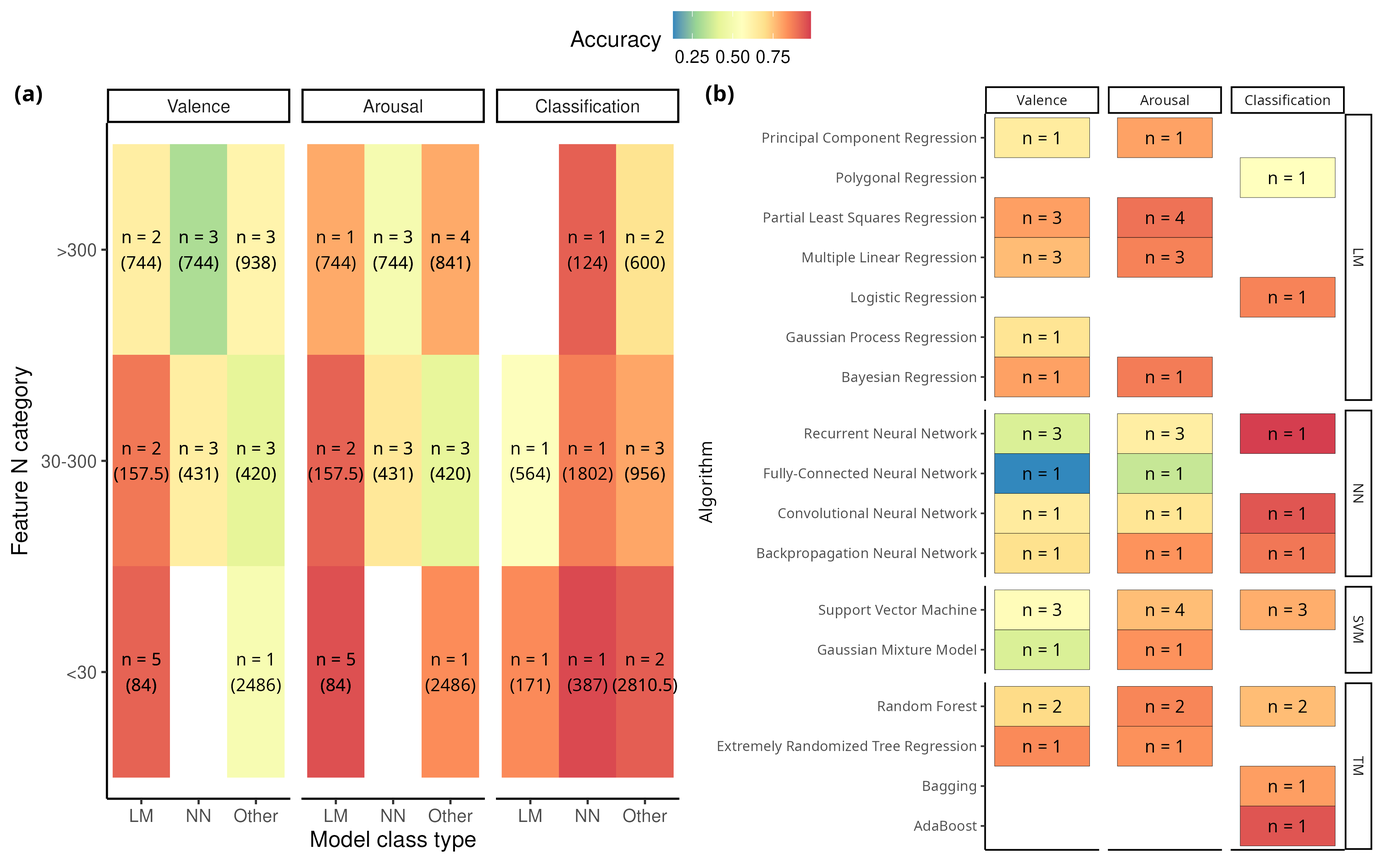
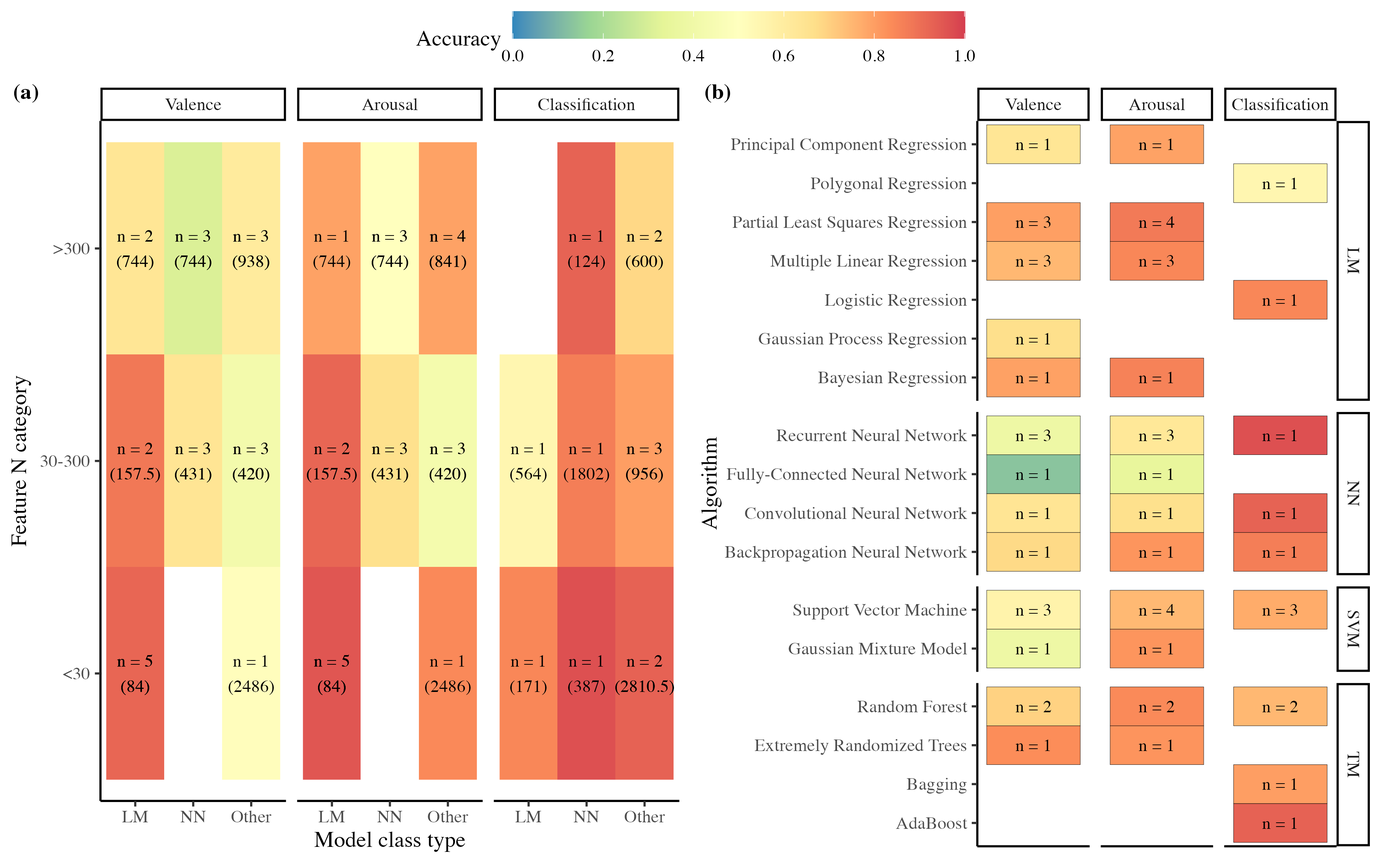
Font edits to heatmap and MS edits to introduction

diff --git a/docs/manuscript/manuscript.html b/docs/manuscript/manuscript.html
@@ -211,6 +211,7 @@ window.Quarto = {
 </header>
 
 
+<!-- ACM Computing Surveys: Shorter survey papers should be self-contained and not exceed 15 pages in length including references. -->
 <section id="introduction" class="level1">
 <h1>Introduction</h1>
 <p>Emotional engagement is a key reason why people engage with music in their every day activities, and it is also why music is increasingly being used in various health applications <span class="citation" data-cites="juslin2022emotions agres2021music">(<a href="#ref-agres2021music" role="doc-biblioref">Agres et al., 2021</a>; <a href="#ref-juslin2022emotions" role="doc-biblioref">Juslin et al., 2022</a>)</span>. In recent years, significant advances have been made in music information retrieval, particularly in music emotion recognition (MER) tasks <span class="citation" data-cites="gomez2021 panda2020audio">(<a href="#ref-gomez2021" role="doc-biblioref">Gómez-Cañón et al., 2021</a>; <a href="#ref-panda2020audio" role="doc-biblioref">Panda et al., 2023</a>)</span>. Improvements in available features, modeling techniques, and datasets have provided the field with opportunities to enhance the accuracy and reliability of predicting annotated emotions from audio. Over the past 25 years, numerous studies have established the types of emotions that listeners perceive and recognize in music. In the last 15 years, research has increasingly focused on tracing these recognized emotions back to specific musical components, such as expressive features <span class="citation" data-cites="lindstrom2003expressivity">(<a href="#ref-lindstrom2003expressivity" role="doc-biblioref">Lindström et al., 2003</a>)</span>, structural aspects of music <span class="citation" data-cites="eerola_friberg_bresin_2013 anderson2022ex grimaud_eerola_2022">(<a href="#ref-anderson2022ex" role="doc-biblioref">Anderson &amp; Schutz, 2022</a>; <a href="#ref-eerola_friberg_bresin_2013" role="doc-biblioref">Eerola et al., 2013</a>; <a href="#ref-grimaud_eerola_2022" role="doc-biblioref">Grimaud &amp; Eerola, 2022</a>)</span>, acoustic features <span class="citation" data-cites="yang2008 panda2013multi saari_et_al_2015 eerola2011c panda2020audio">(<a href="#ref-eerola2011c" role="doc-biblioref">Eerola, 2011</a>; <a href="#ref-panda2020audio" role="doc-biblioref">Panda et al., 2023</a>, <a href="#ref-panda2013multi" role="doc-biblioref">2013</a>; <a href="#ref-saari_et_al_2015" role="doc-biblioref">Saari et al., 2015</a>; <a href="#ref-yang2008" role="doc-biblioref">Y. H. Yang et al., 2008</a>)</span>, or emergent properties revealed through deep learning techniques <span class="citation" data-cites="er2019music sarkar2020recognition">(<a href="#ref-er2019music" role="doc-biblioref">Er &amp; Aydilek, 2019</a>; <a href="#ref-sarkar2020recognition" role="doc-biblioref">Sarkar et al., 2020</a>)</span>.</p>
@@ -227,10 +228,11 @@ window.Quarto = {
 <!--paragraph on models used across regession & classification tasks-->
 <p>Across regression and classification paradigms, a wide range of models have been employed, ranging from linear regression models <span class="citation" data-cites="saizclar2022pr griffiths2021am yang2008">(<a href="#ref-griffiths2021am" role="doc-biblioref">Griffiths et al., 2021</a>; <a href="#ref-saizclar2022pr" role="doc-biblioref">Saiz-Clar et al., 2022</a>; <a href="#ref-yang2008" role="doc-biblioref">Y. H. Yang et al., 2008</a>)</span> to deep neural networks <span class="citation" data-cites="orjesek2022en hizlisoy2021mu">(<a href="#ref-hizlisoy2021mu" role="doc-biblioref">Hizlisoy et al., 2021</a>; <a href="#ref-orjesek2022en" role="doc-biblioref">Orjesek et al., 2022</a>)</span>. In classification tasks, early work has commonly employed Gaussian mixture models <span class="citation" data-cites="lu_automatic_2005 liu_automatic_2003">(<a href="#ref-liu_automatic_2003" role="doc-biblioref">Liu et al., 2003</a>; <a href="#ref-lu_automatic_2005" role="doc-biblioref">Lu et al., 2005</a>)</span> and support vector machines <span class="citation" data-cites="mandel2007labrosa lin2009eeg tzanetakis2007marsyas">(<a href="#ref-lin2009eeg" role="doc-biblioref">Lin et al., 2009</a>; <a href="#ref-mandel2007labrosa" role="doc-biblioref">M. Mandel &amp; Ellis, 2007</a>; <a href="#ref-tzanetakis2007marsyas" role="doc-biblioref">Tzanetakis, 2007</a>)</span>, whereas convolutional, recurrent, and fully-connected neural networks have become increasingly popular in recent years <span class="citation" data-cites="grekow2021music song2018audio coutinho2017sh">(<a href="#ref-coutinho2017sh" role="doc-biblioref">Coutinho &amp; Schuller, 2017</a>; <a href="#ref-grekow2021music" role="doc-biblioref">Grekow, 2021</a>; <a href="#ref-song2018audio" role="doc-biblioref">Song et al., 2018</a>)</span>. In regression tasks, a wide range of algorithms have been tested, including partial least squares <span class="citation" data-cites="gingras2014be wang2021ac">(<a href="#ref-gingras2014be" role="doc-biblioref">Gingras et al., 2014</a>; <a href="#ref-wang2021ac" role="doc-biblioref">Wang et al., 2021</a>)</span>, support vector machines <span class="citation" data-cites="grekow2018au hu2017cr agarwal2021an">(<a href="#ref-agarwal2021an" role="doc-biblioref">Agarwal &amp; Om, 2021</a>; <a href="#ref-grekow2018au" role="doc-biblioref">Grekow, 2018</a>; <a href="#ref-hu2017cr" role="doc-biblioref">X. Hu &amp; Yang, 2017</a>)</span>, random forests <span class="citation" data-cites="beveridge2018po xu2021us">(<a href="#ref-beveridge2018po" role="doc-biblioref">Beveridge &amp; Knox, 2018</a>; <a href="#ref-xu2021us" role="doc-biblioref">Xu et al., 2021</a>)</span>, and convolutional neural networks <span class="citation" data-cites="orjesek2022en">(<a href="#ref-orjesek2022en" role="doc-biblioref">Orjesek et al., 2022</a>)</span>.</p>
 </section>
-<section id="large-vs.-small-data" class="level2">
-<h2 class="anchored" data-anchor-id="large-vs.-small-data">Large vs.&nbsp;small data</h2>
-<p>MER tasks commonly apply regression and classification techniques to diverse datasets with features drawn from both music (e.g., audio, MIDI, metadata) and participants (e.g., demographic information, survey responses, physiological signals, etc.). To facilitate model comparison, several databases have been shared publicly, including MediaEval <span class="citation" data-cites="soleymani2013">(<a href="#ref-soleymani2013" role="doc-biblioref">Soleymani et al., 2013</a>)</span>, DEAM <span class="citation" data-cites="aljanaki2017developing">(<a href="#ref-aljanaki2017developing" role="doc-biblioref">Aljanaki et al., 2017</a>)</span>, and AMG1608 <span class="citation" data-cites="chen2015amg1608">(<a href="#ref-chen2015amg1608" role="doc-biblioref">Chen et al., 2015</a>)</span>. These datasets represent Western pop music, are moderate in terms of the size (containing from 744 to 1802 music excerpts) and have been manually annotated by a relatively large number of participants (either by experts, students, or crowdsourced workers). Many datasets include audio features analyzed with software toolboxes for audio analysis such as OpenSMILE <span class="citation" data-cites="eyben2010opensmile">(<a href="#ref-eyben2010opensmile" role="doc-biblioref">Eyben et al., 2010</a>)</span> and MIRToolbox <span class="citation" data-cites="lartillot2007matlab">(<a href="#ref-lartillot2007matlab" role="doc-biblioref">Lartillot &amp; Toiviainen, 2007</a>)</span> – enabling models that predict ratings using tens, or even hundreds, of audio features. Large datasets are ideal for generalizing predictions across diverse musical samples and are commonly employed in machine learning applications focused on maximizing accuracy of a MER system.</p>
-<p>Although training MER systems with a wide range of stimuli and features can be useful for generalizable and accurate modeling, small datasets can be more appropriate in explorations that require precise control of stimuli or analyzed features to understand a model’s performance. For example, <span class="citation" data-cites="griffiths2021am">Griffiths et al. (<a href="#ref-griffiths2021am" role="doc-biblioref">2021</a>)</span> evaluated a MER model’s performance when predicting 20 tracks different genres, validating the model on another 40 tracks. <span class="citation" data-cites="saizclar2022pr">Saiz-Clar et al. (<a href="#ref-saizclar2022pr" role="doc-biblioref">2022</a>)</span> evaluated how onset curves (changes in the energy of a note starting from its onset) can be incorporated into a predictive framework using 40 short (8-12s) piano excerpts. Smaller datasets are also useful in studies attempting to explain how stimulus qualities such as amplitude normalization <span class="citation" data-cites="gingras2014be">(<a href="#ref-gingras2014be" role="doc-biblioref">Gingras et al., 2014</a>)</span> or different performers’ interpretations <span class="citation" data-cites="battcock2021in">(<a href="#ref-battcock2021in" role="doc-biblioref">Battcock &amp; Schutz, 2021</a>)</span> affect ratings of valence and arousal. Although these studies are not always designed with MER applications in mind, their similar framework has enabled direct application <span class="citation" data-cites="chowdhury2021perceived">(e.g., <a href="#ref-chowdhury2021perceived" role="doc-biblioref">Chowdhury &amp; Widmer, 2021</a>)</span>.</p>
+<section id="dataset-size-and-scope" class="level2">
+<h2 class="anchored" data-anchor-id="dataset-size-and-scope">Dataset size and scope</h2>
+<p>MER tasks commonly apply regression and classification techniques to diverse datasets with features drawn from both music (e.g., audio, MIDI, metadata) and participants (e.g., demographic information, survey responses, physiological signals, etc.). To facilitate model comparison, several databases have been shared publicly, including <em>MediaEval</em> <span class="citation" data-cites="soleymani2013">(<a href="#ref-soleymani2013" role="doc-biblioref">Soleymani et al., 2013</a>)</span>, <em>DEAM</em> <span class="citation" data-cites="aljanaki2017developing">(<a href="#ref-aljanaki2017developing" role="doc-biblioref">Aljanaki et al., 2017</a>)</span>, and <em>AMG1608</em> <span class="citation" data-cites="chen2015amg1608">(<a href="#ref-chen2015amg1608" role="doc-biblioref">Chen et al., 2015</a>)</span>. These datasets represent Western pop music, are moderate in terms of the size (containing from 744 to 1802 music excerpts) and have been manually annotated by a relatively large number of participants (either by experts, students, or crowdsourced workers). Many datasets include audio features analyzed with software toolboxes for audio analysis such as <em>OpenSMILE</em> <span class="citation" data-cites="eyben2010opensmile">(<a href="#ref-eyben2010opensmile" role="doc-biblioref">Eyben et al., 2010</a>)</span> and <em>MIRToolbox</em> <span class="citation" data-cites="lartillot2007matlab">(<a href="#ref-lartillot2007matlab" role="doc-biblioref">Lartillot &amp; Toiviainen, 2007</a>)</span> – enabling models that predict ratings using tens, or even hundreds, of audio features.</p>
+<p>Large datasets are needed to generalize predictions across diverse samples, especially for deep learning and complex machine-learning models that require extensive pre-training. However, the dataset sizes in MER tend to be modest in comparison, as direct annotation of music examples is resource-intensive. In contrast, datasets in the visual domain are often significantly larger (e.g., <em>EmoSet</em> with 118,102 images and <em>AffectNet</em> with 450,000, see <span class="citation" data-cites="yang2023emoset">Jingyuan Yang et al. (<a href="#ref-yang2023emoset" role="doc-biblioref">2023</a>)</span>;<span class="citation" data-cites="mollahosseini2017affectnet">Mollahosseini et al. (<a href="#ref-mollahosseini2017affectnet" role="doc-biblioref">2017</a>)</span>). Some efforts have been made to scale up MER datasets by inferring emotions from tags (<em>MTG-Jamendo</em> with 18,486 excerpts <span class="citation" data-cites="bogdanov2019mtg">Bogdanov et al. (<a href="#ref-bogdanov2019mtg" role="doc-biblioref">2019</a>)</span> and <em>Music4all</em> with 109,269 excerpts <span class="citation" data-cites="santana2020">Santana et al. (<a href="#ref-santana2020" role="doc-biblioref">2020</a>)</span>), but these have not found their way into standard emotion prediction or classification tasks yet.</p>
+<p>Although training MER systems with a wide range of stimuli and features can be useful for generalizable and accurate modeling, small datasets can be more appropriate in explorations that require precise control of stimuli or analyzed features to understand a model’s performance. For example, <span class="citation" data-cites="griffiths2021am">Griffiths et al. (<a href="#ref-griffiths2021am" role="doc-biblioref">2021</a>)</span> evaluated a MER model’s performance when predicting 20 tracks different genres, validating the model on another 40 tracks. <span class="citation" data-cites="saizclar2022pr">Saiz-Clar et al. (<a href="#ref-saizclar2022pr" role="doc-biblioref">2022</a>)</span> evaluated how onset curves (changes in the energy of a note starting from its onset) can be incorporated into a predictive framework using 40 short (8-12s) piano excerpts. Smaller datasets are also useful in studies attempting to explain how stimulus qualities such as amplitude normalization <span class="citation" data-cites="gingras2014be">(<a href="#ref-gingras2014be" role="doc-biblioref">Gingras et al., 2014</a>)</span> or different performers’ interpretations <span class="citation" data-cites="battcock2021in">(<a href="#ref-battcock2021in" role="doc-biblioref">Battcock &amp; Schutz, 2021</a>)</span> affect ratings of valence and arousal. Although predictive modeling is not always an explicit goal of these studies, MER researchers have been able to adapt them in a MER framework <span class="citation" data-cites="chowdhury2021perceived">(e.g., <a href="#ref-chowdhury2021perceived" role="doc-biblioref">Chowdhury &amp; Widmer, 2021</a>)</span>.</p>
 </section>
 <section id="the-current-benchmarks-of-mer" class="level2">
 <h2 class="anchored" data-anchor-id="the-current-benchmarks-of-mer">The current benchmarks of MER</h2>
@@ -244,8 +246,8 @@ window.Quarto = {
 - How do modeling techniques, and the number of features used affect performance? Which combinations perform best?
 
 -->
-<p>Prediction accuracy in MER tasks has improved as datasets and models have become more sophisticated; The regression models for arousal/valence was 58%/28% in 2008 <span class="citation" data-cites="yang2008">(<a href="#ref-yang2008" role="doc-biblioref">Y. H. Yang et al., 2008</a>)</span>, 70%/26% in 2010 <span class="citation" data-cites="huq2010automated">(<a href="#ref-huq2010automated" role="doc-biblioref">Huq et al., 2010</a>)</span>, to 67%/46% in 2021 <span class="citation" data-cites="yang2021an">(<a href="#ref-yang2021an" role="doc-biblioref">J. Yang, 2021</a>)</span>. The classification rates have similarly increased from 53% <span class="citation" data-cites="downie_music_2008">(<a href="#ref-downie_music_2008" role="doc-biblioref">Downie, 2008</a>)</span> to 70% <span class="citation" data-cites="park2017representation">(<a href="#ref-park2017representation" role="doc-biblioref">Park et al., 2017</a>)</span> to 83% <span class="citation" data-cites="sarkar2020recognition">(<a href="#ref-sarkar2020recognition" role="doc-biblioref">Sarkar et al., 2020</a>)</span> in the same period. Comparing these past efforts is challenging due to inconsistencies in metrics, modelling architectures, datasets, and model evaluation criteria. While we assume that overall accuracy has improved significantly over the past decade, predicting valence remains more challenging than predicting arousal.</p>
-<p>Researchers have sought to enhance emotion prediction by identifying more relevant feature sets <span class="citation" data-cites="panda2020audio chowdhury2021perceived">(<a href="#ref-chowdhury2021perceived" role="doc-biblioref">Chowdhury &amp; Widmer, 2021</a>; <a href="#ref-panda2020audio" role="doc-biblioref">Panda et al., 2023</a>)</span>, integrating low-, mid-, and high-level features through multimodal data <span class="citation" data-cites="celma_foafing_2006">(<a href="#ref-celma_foafing_2006" role="doc-biblioref">Celma, 2006</a>)</span>, and leveraging neural networks to learn features directly from audio <span class="citation" data-cites="zhang2016br alvarez2023ri agarwal2021an">(<a href="#ref-agarwal2021an" role="doc-biblioref">Agarwal &amp; Om, 2021</a>; <a href="#ref-alvarez2023ri" role="doc-biblioref">Álvarez et al., 2023</a>; <a href="#ref-zhang2016br" role="doc-biblioref">J. Zhang et al., 2016</a>)</span>. These approaches aim to overcome what has been described as a <em>glass ceiling</em> in MER research <span class="citation" data-cites="downie_music_2008">(<a href="#ref-downie_music_2008" role="doc-biblioref">Downie, 2008</a>)</span> – a limitation sometimes referred to as the <em>semantic gap</em> <span class="citation" data-cites="wiggins_semantic_2009">(<a href="#ref-wiggins_semantic_2009" role="doc-biblioref">Wiggins, 2009</a>)</span>. However, this ceiling may be better understood as an inherent measurement error arising from annotations, feature representations, and model limitations. While isolating the sources of these errors remains infeasible at this stage, comparing success rates across modeling techniques, feature set sizes, and other meaningful factors offers a step toward addressing this challenge. To date, however, no study has systematically compared the results of the diverse approaches employed in MER research.</p>
+<p>Prediction accuracy in MER tasks has improved as datasets and models have become more sophisticated; The regression models for arousal/valence was 58%/28% in 2008 <span class="citation" data-cites="yang2008">(<a href="#ref-yang2008" role="doc-biblioref">Y. H. Yang et al., 2008</a>)</span>, 70%/26% in 2010 <span class="citation" data-cites="huq2010automated">(<a href="#ref-huq2010automated" role="doc-biblioref">Huq et al., 2010</a>)</span>, to 67%/46% in 2021 <span class="citation" data-cites="yang2021an">(<a href="#ref-yang2021an" role="doc-biblioref">Jing Yang, 2021</a>)</span>. The classification rates have similarly increased from 53% <span class="citation" data-cites="downie_music_2008">(<a href="#ref-downie_music_2008" role="doc-biblioref">Downie, 2008</a>)</span> to 70% <span class="citation" data-cites="park2017representation">(<a href="#ref-park2017representation" role="doc-biblioref">Park et al., 2017</a>)</span> to 83% <span class="citation" data-cites="sarkar2020recognition">(<a href="#ref-sarkar2020recognition" role="doc-biblioref">Sarkar et al., 2020</a>)</span> in the same period. Comparing these past efforts, however, is challenging due to inconsistencies in metrics, modelling architectures, datasets, and model evaluation criteria. While we assume that overall accuracy has improved significantly over the past decade, predicting valence remains more challenging than predicting arousal.</p>
+<p>Researchers have sought to enhance emotion prediction by identifying more relevant feature sets <span class="citation" data-cites="panda2020audio chowdhury2021perceived">(<a href="#ref-chowdhury2021perceived" role="doc-biblioref">Chowdhury &amp; Widmer, 2021</a>; <a href="#ref-panda2020audio" role="doc-biblioref">Panda et al., 2023</a>)</span>, integrating low-, mid-, and high-level features through multimodal data <span class="citation" data-cites="celma_foafing_2006">(<a href="#ref-celma_foafing_2006" role="doc-biblioref">Celma, 2006</a>)</span>, and leveraging neural networks to learn features directly from audio <span class="citation" data-cites="zhang2016br alvarez2023ri agarwal2021an">(<a href="#ref-agarwal2021an" role="doc-biblioref">Agarwal &amp; Om, 2021</a>; <a href="#ref-alvarez2023ri" role="doc-biblioref">Álvarez et al., 2023</a>; <a href="#ref-zhang2016br" role="doc-biblioref">J. Zhang et al., 2016</a>)</span>. These approaches aim to overcome what has been described as a <em>glass ceiling</em> in MER research <span class="citation" data-cites="downie_music_2008">(<a href="#ref-downie_music_2008" role="doc-biblioref">Downie, 2008</a>)</span> – a limitation sometimes referred to as the <em>semantic gap</em> <span class="citation" data-cites="wiggins_semantic_2009 celma_foafing_2006">(<a href="#ref-celma_foafing_2006" role="doc-biblioref">Celma, 2006</a>; <a href="#ref-wiggins_semantic_2009" role="doc-biblioref">Wiggins, 2009</a>)</span>. However, this prediction ceiling may be better understood as an inherent <em>measurement error</em> arising from annotations, feature representations, and model limitations. While isolating the sources of these errors remains infeasible at this stage, comparing success rates across modeling techniques, feature set sizes, and other meaningful factors offers a step toward addressing this challenge. To date, however, no study has systematically compared the results of the diverse approaches employed in MER research.</p>
 </section>
 <section id="aims" class="level2">
 <h2 class="anchored" data-anchor-id="aims">Aims</h2>
@@ -1071,7 +1073,7 @@ TE: Or if we submit the meta-analysis soon and create a more pragmatic breakdown
 <!-- ### Feature definition/validations -->
 <p>One of the crucial aspects of modeling is the choice of features, their quantity, and their validation. In the present materials, we observe a continuum defined by two extremes: one approach relies on domain knowledge, starting with a limited number of features that are assumed to be perceptually relevant, while the other employs a large number of features, allowing the model to determine which are most relevant for prediction. The former is typically favored in music psychology studies, whereas the latter is more common in engineering and machine learning fields. Our results suggest that the domain knowledge-driven approach leads to the highest model accuracy across all studies and techniques. However, as our sample includes studies from the past 10 years, it is important to note that deep learning models have only gained prominence in this field since 2021. Consequently, it is too early to generalize that models based on domain knowledge, with a limited number of features and classical techniques, will continue to outperform machine learning approaches that utilize a large (300+) feature sets. We believe that the relatively modest size of datasets available so far has prevented deep learning approaches from fully leveraging their potential to learn generalizable patterns in the data . For reference, the size of the datasets in MER are currently comparable to dataset sizes for modeling facial expressions (median N=502, <span class="citation" data-cites="krumhuber2017">Krumhuber et al. (<a href="#ref-krumhuber2017" role="doc-biblioref">2017</a>)</span>) and speech expressions (median of 1287, <span class="citation" data-cites="hashem2023">Hashem et al. (<a href="#ref-hashem2023" role="doc-biblioref">2023</a>)</span>). However, annotated datasets for visual scenes and objects tend to be much larger, often exceeding 100,000 annotated examples <span class="citation" data-cites="deng2009imagenet krishna2017visual">(<a href="#ref-deng2009imagenet" role="doc-biblioref">Deng et al., 2009</a>; <a href="#ref-krishna2017visual" role="doc-biblioref">Krishna et al., 2017</a>)</span>. Datasets of these magnitudes seem to be required for appropriate utilisation of deep learning algorithms <span class="citation" data-cites="alwosheel2018 sun2017revisiting">(<a href="#ref-alwosheel2018" role="doc-biblioref">Alwosheel et al., 2018</a>; <a href="#ref-sun2017revisiting" role="doc-biblioref">Sun et al., 2017</a>)</span>, which may explain the modest results observed in the music emotion recognition studies.</p>
 <!-- ### Validation -->
-<p>An encouraging finding is that ~94% of the studies analyzed here reported some form of model validation. The majority of studies validated models by splitting the dataset into separate sets for training and testing <span class="citation" data-cites="yang2021an">(e.g., <a href="#ref-yang2021an" role="doc-biblioref">J. Yang, 2021</a>)</span>, sometimes including an additional set for validation <span class="citation" data-cites="sorussa2020em">(<a href="#ref-sorussa2020em" role="doc-biblioref">Sorussa et al., 2020</a>)</span>. Most used some form of cross validation (CV), with the most common type being 10-fold CV. Other varieties included 3-fold, 5-fold, or 6-fold CV, as well as more complex variants like nested leave-one-out CV <span class="citation" data-cites="coutinho2017sh">(<a href="#ref-coutinho2017sh" role="doc-biblioref">Coutinho &amp; Schuller, 2017</a>)</span> and 20 x 10-fold CV <span class="citation" data-cites="panda2020no">(<a href="#ref-panda2020no" role="doc-biblioref">Panda et al., 2020</a>)</span>. Whereas many engineering studies performed model validation using one or more large databases, some psychological studies evaluating smaller datasets validated models by designing new experiments. Examples include comparing a model’s performance on ground-truth data with annotations from a second experiment <span class="citation" data-cites="griffiths2021am beveridge2018po">(<a href="#ref-beveridge2018po" role="doc-biblioref">Beveridge &amp; Knox, 2018</a>; <a href="#ref-griffiths2021am" role="doc-biblioref">Griffiths et al., 2021</a>)</span>, or comparing a model’s performance across different versions of the same music pieces <span class="citation" data-cites="battcock2021in">(<a href="#ref-battcock2021in" role="doc-biblioref">Battcock &amp; Schutz, 2021</a>)</span>.</p>
+<p>An encouraging finding is that ~94% of the studies analyzed here reported some form of model validation. The majority of studies validated models by splitting the dataset into separate sets for training and testing <span class="citation" data-cites="yang2021an">(e.g., <a href="#ref-yang2021an" role="doc-biblioref">Jing Yang, 2021</a>)</span>, sometimes including an additional set for validation <span class="citation" data-cites="sorussa2020em">(<a href="#ref-sorussa2020em" role="doc-biblioref">Sorussa et al., 2020</a>)</span>. Most used some form of cross validation (CV), with the most common type being 10-fold CV. Other varieties included 3-fold, 5-fold, or 6-fold CV, as well as more complex variants like nested leave-one-out CV <span class="citation" data-cites="coutinho2017sh">(<a href="#ref-coutinho2017sh" role="doc-biblioref">Coutinho &amp; Schuller, 2017</a>)</span> and 20 x 10-fold CV <span class="citation" data-cites="panda2020no">(<a href="#ref-panda2020no" role="doc-biblioref">Panda et al., 2020</a>)</span>. Whereas many engineering studies performed model validation using one or more large databases, some psychological studies evaluating smaller datasets validated models by designing new experiments. Examples include comparing a model’s performance on ground-truth data with annotations from a second experiment <span class="citation" data-cites="griffiths2021am beveridge2018po">(<a href="#ref-beveridge2018po" role="doc-biblioref">Beveridge &amp; Knox, 2018</a>; <a href="#ref-griffiths2021am" role="doc-biblioref">Griffiths et al., 2021</a>)</span>, or comparing a model’s performance across different versions of the same music pieces <span class="citation" data-cites="battcock2021in">(<a href="#ref-battcock2021in" role="doc-biblioref">Battcock &amp; Schutz, 2021</a>)</span>.</p>
 <!-- Western bias -->
 <p>At present, the majority of the datasets are Western pop, which represent only a fraction of the musical styles consumed globally. Also, the annotators representing the Global North dominate the studies at the moment, with some exceptions <span class="citation" data-cites="gomez-canon2023 zhangPMEmo2018">(<a href="#ref-gomez-canon2023" role="doc-biblioref">Gómez-Cañón et al., 2023</a>; <a href="#ref-zhangPMEmo2018" role="doc-biblioref">K. Zhang et al., 2018</a>)</span>. This lack of diversity may contribute the success of the task but presents a significant limitation in our understanding of MER more broadly <span class="citation" data-cites="bornDiversifyingMIRKnowledge2020">(<a href="#ref-bornDiversifyingMIRKnowledge2020" role="doc-biblioref">Born, 2020</a>)</span>.</p>
 <!-- ### Emotion frameworks chosen -->
@@ -1138,6 +1140,9 @@ Beveridge, S., &amp; Knox, D. (2018). Popular music and the role of vocal melody
 </div>
 <div id="ref-bhuvanakumar2023em" class="csl-entry" role="listitem">
 Bhuvana Kumar, V., &amp; Kathiravan, M. (2023). Emotion recognition from MIDI musical file using enhanced residual gated recurrent unit architecture [Article]. <em>Frontiers in Computer Science</em>, <em>5</em>. <a href="https://doi.org/10.3389/fcomp.2023.1305413">https://doi.org/10.3389/fcomp.2023.1305413</a>
+</div>
+<div id="ref-bogdanov2019mtg" class="csl-entry" role="listitem">
+Bogdanov, D., Won, M., Tovstogan, P., Porter, A., &amp; Serra, X. (2019). The <span class="nocase">MTG-jamendo</span> dataset for automatic music tagging. <em>Machine Learning for Music Discovery Workshop, International Conference on Machine Learning (<span>ICML</span> 2019)</em>.
 </div>
 <div id="ref-bornDiversifyingMIRKnowledge2020" class="csl-entry" role="listitem">
 Born, G. (2020). Diversifying <span>MIR</span>: Knowledge and real-world challenges, and new interdisciplinary futures. <em>Transactions of the International Society for Music Information Retrieval</em>, <em>3</em>(1), 193–204. <a href="https://doi.org/10.5334/tismir.58">https://doi.org/10.5334/tismir.58</a>
@@ -1292,6 +1297,9 @@ Mashao, D. J. (2003). Comparing SVM and GMM on parametric feature-sets. <em>Proc
 <div id="ref-mendel1969some" class="csl-entry" role="listitem">
 Mendel, A. (1969). Some preliminary attempts at computer-assisted style analysis in music. <em>Computers and the Humanities</em>, 41–52.
 </div>
+<div id="ref-mollahosseini2017affectnet" class="csl-entry" role="listitem">
+Mollahosseini, A., Hasani, B., &amp; Mahoor, M. H. (2017). Affectnet: A database for facial expression, valence, and arousal computing in the wild. <em>IEEE Transactions on Affective Computing</em>, <em>10</em>(1), 18–31.
+</div>
 <div id="ref-nag2022" class="csl-entry" role="listitem">
 Nag, S., Basu, M., Sanyal, S., Banerjee, A., &amp; Ghosh, D. (2022). On the application of deep learning and multifractal techniques to classify emotions and instruments using indian classical music. <em>Physica A: Statistical Mechanics and Its Applications</em>, <em>597</em>. <a href="https://doi.org/10.1016/j.physa.2022.127261">https://doi.org/10.1016/j.physa.2022.127261</a>
 </div>
@@ -1365,7 +1373,10 @@ Wiggins, G. A. (2009). Semantic gap?? <span>Schemantic</span> schmap‼ <span>Me
 Xu, L., Sun, Z., Wen, X., Huang, Z., Chao, C., &amp; Xu, L. (2021). Using machine learning analysis to interpret the relationship between music emotion and lyric features. <em>PEERJ COMPUTER SCIENCE</em>, <em>7</em>. <a href="https://doi.org/10.7717/peerj-cs.785">https://doi.org/10.7717/peerj-cs.785</a>
 </div>
 <div id="ref-yang2021an" class="csl-entry" role="listitem">
-Yang, J. (2021). A novel music emotion recognition model using neural network technology [Article]. <em>Frontiers in Psychology</em>, <em>12</em>. <a href="https://doi.org/10.3389/fpsyg.2021.760060">https://doi.org/10.3389/fpsyg.2021.760060</a>
+Yang, Jing. (2021). A novel music emotion recognition model using neural network technology [Article]. <em>Frontiers in Psychology</em>, <em>12</em>. <a href="https://doi.org/10.3389/fpsyg.2021.760060">https://doi.org/10.3389/fpsyg.2021.760060</a>
+</div>
+<div id="ref-yang2023emoset" class="csl-entry" role="listitem">
+Yang, Jingyuan, Huang, Q., Ding, T., Lischinski, D., Cohen-Or, D., &amp; Huang, H. (2023). Emoset: A large-scale visual emotion dataset with rich attributes. <em>Proceedings of the IEEE/CVF International Conference on Computer Vision</em>, 20383–20394.
 </div>
 <div id="ref-yang2008" class="csl-entry" role="listitem">
 Yang, Y. H., Lin, Y. C., Su, Y. F., &amp; Chen, H. H. (2008). A regression approach to music emotion recognition. <em>IEEE Transactions on Audio Speech and Language Processing</em>, <em>16</em>(2), 448–457.
